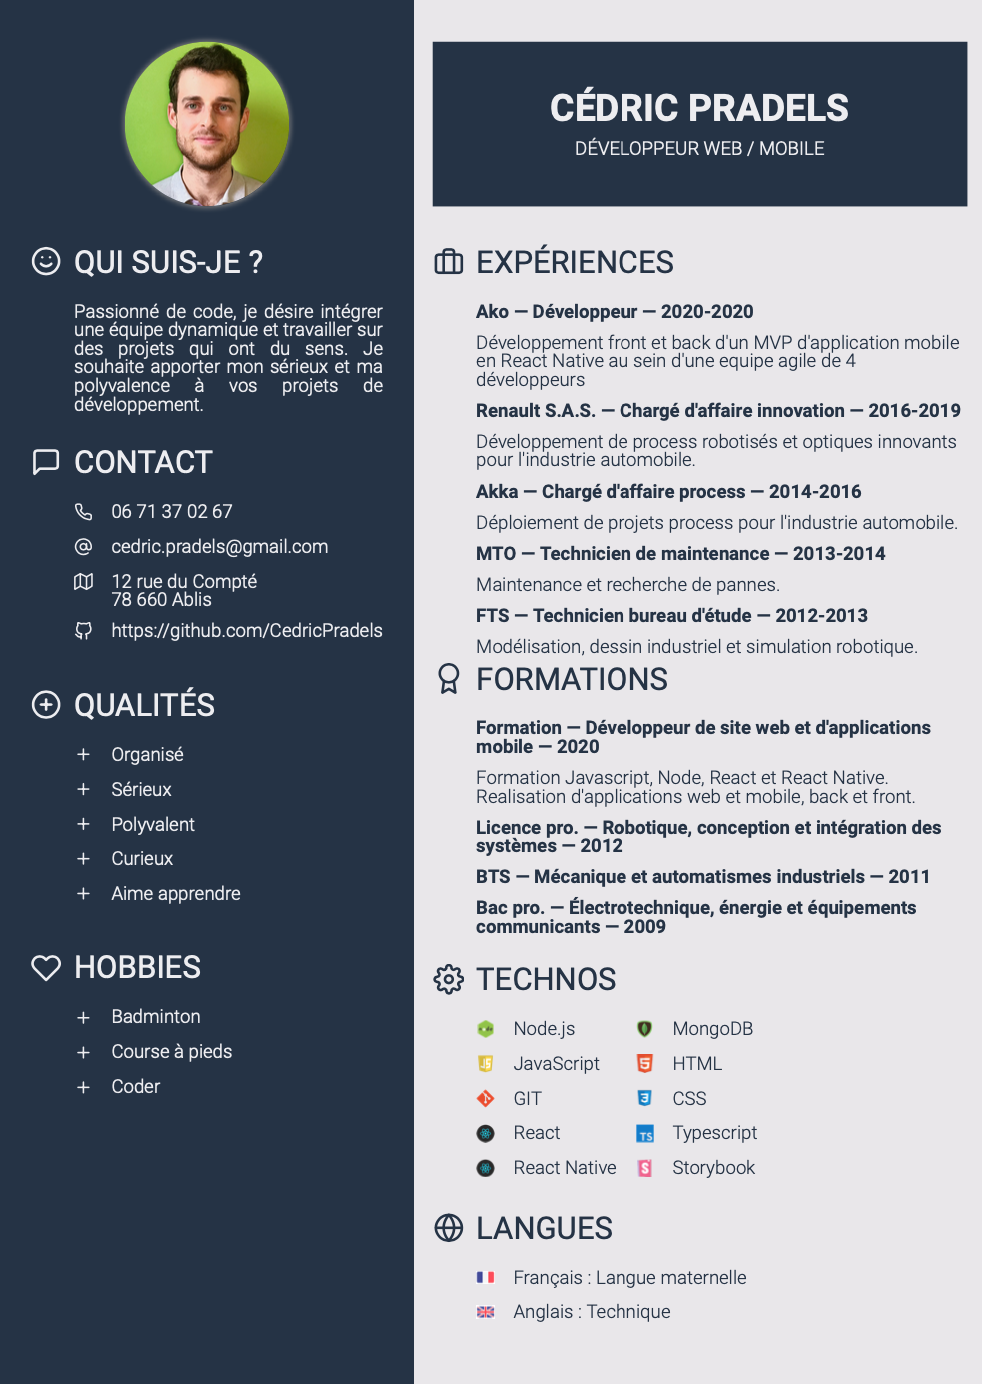
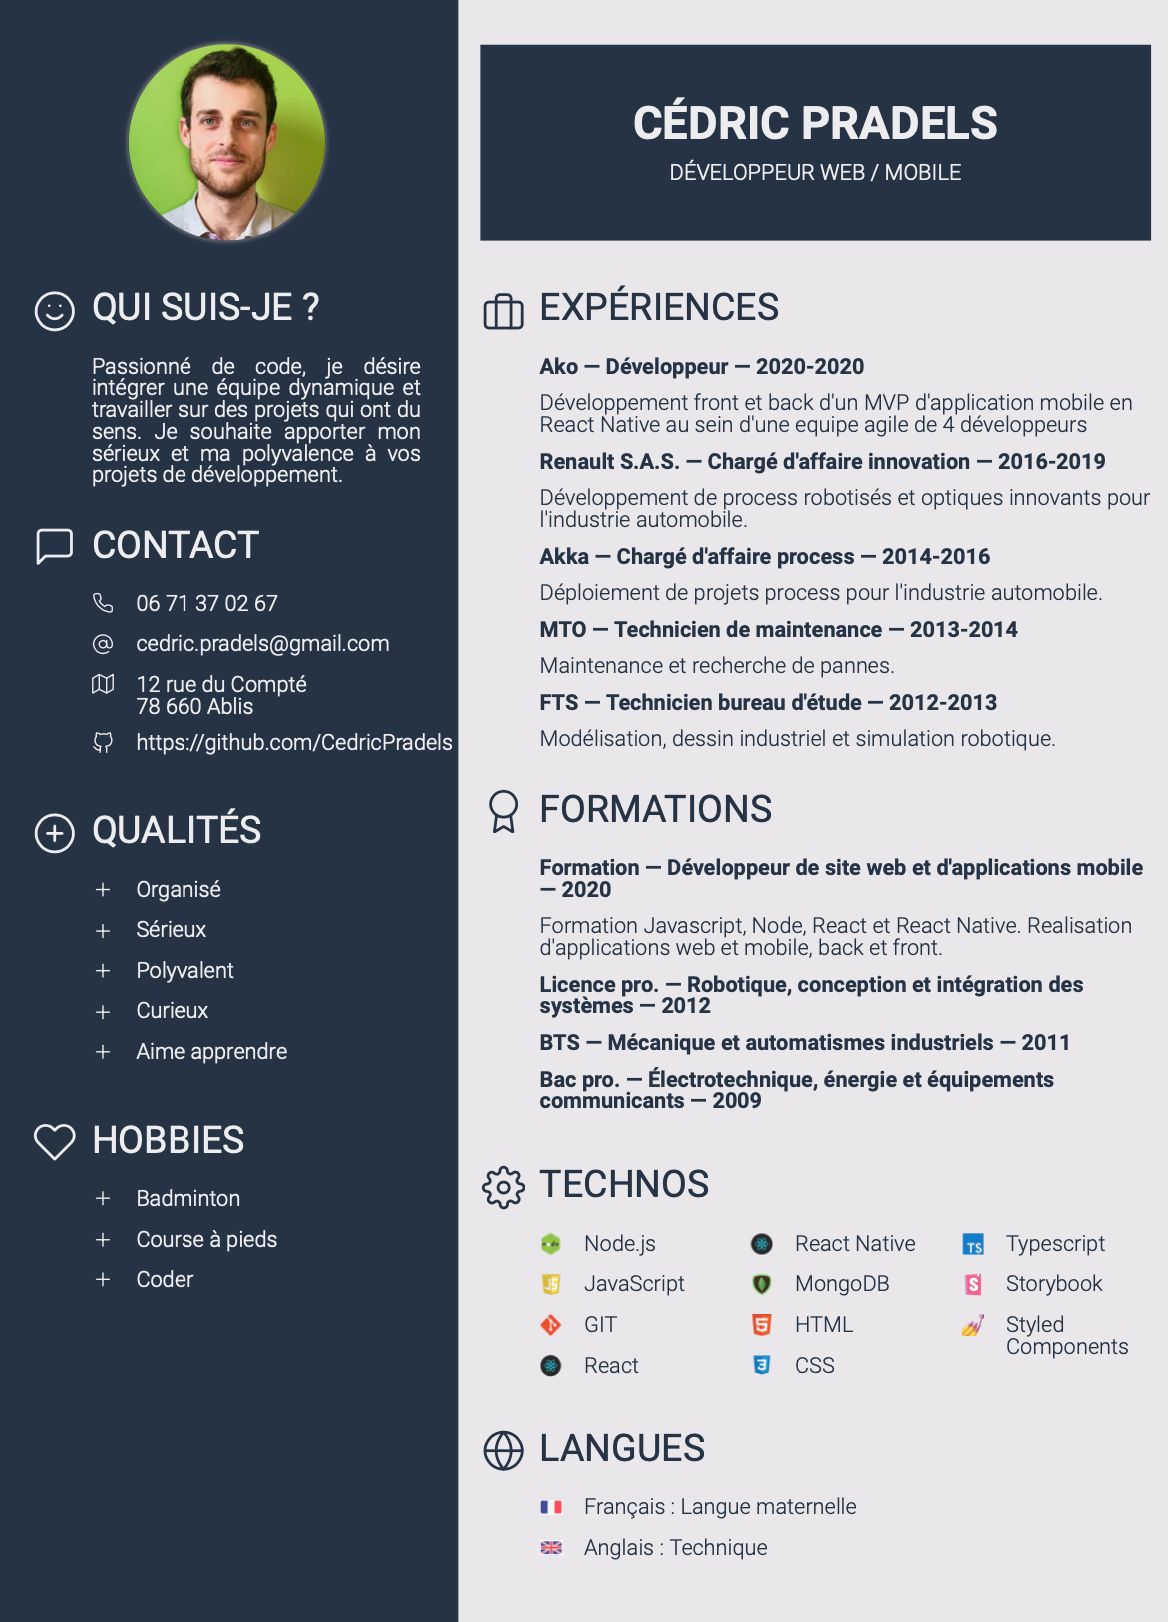
Update CV with styled comp active. Jest pending. Redux/GraphQL TODO

diff --git a/src/assets/datas/dataCedricPradels.js b/src/assets/datas/dataCedricPradels.js
@@ -140,6 +140,15 @@ const cedricPradelsData = {
           { value: "CSS", thumbnail: require("../images/css3.png") },
           { value: "Typescript", thumbnail: require("../images/ts.png") },
           { value: "Storybook", thumbnail: require("../images/storybook.png") },
+          {
+            value: "Styled Components",
+            thumbnail: require("../images/styledComp.png"),
+          },
+          // PENDING
+          // { value: "Jest", thumbnail: require("../images/jest.png") },
+          // TODO
+          // { value: "Redux", thumbnail: require("../images/redux.png") },
+          // { value: "GraphQL", thumbnail: require("../images/graphql.png") },
         ],
       },
     ],

diff --git a/src/App.css b/src/App.css
@@ -25,7 +25,7 @@ body {
 }
 
 aside {
-  flex: 1;
+  width: 33%;
   display: flex;
   flex-direction: column;
   background-color: var(--color1);
@@ -34,7 +34,7 @@ aside {
 }
 
 main {
-  flex: 2;
+  width: 67%;
   background-color: var(--color2);
   padding: 35px 15px;
   display: flex;
@@ -71,7 +71,7 @@ main h3 {
 }
 
 main .twoColumns {
-  columns: 2;
-  -webkit-columns: 2;
-  -moz-columns: 2;
+  columns: 3;
+  -webkit-columns: 3;
+  -moz-columns: 3;
 }
